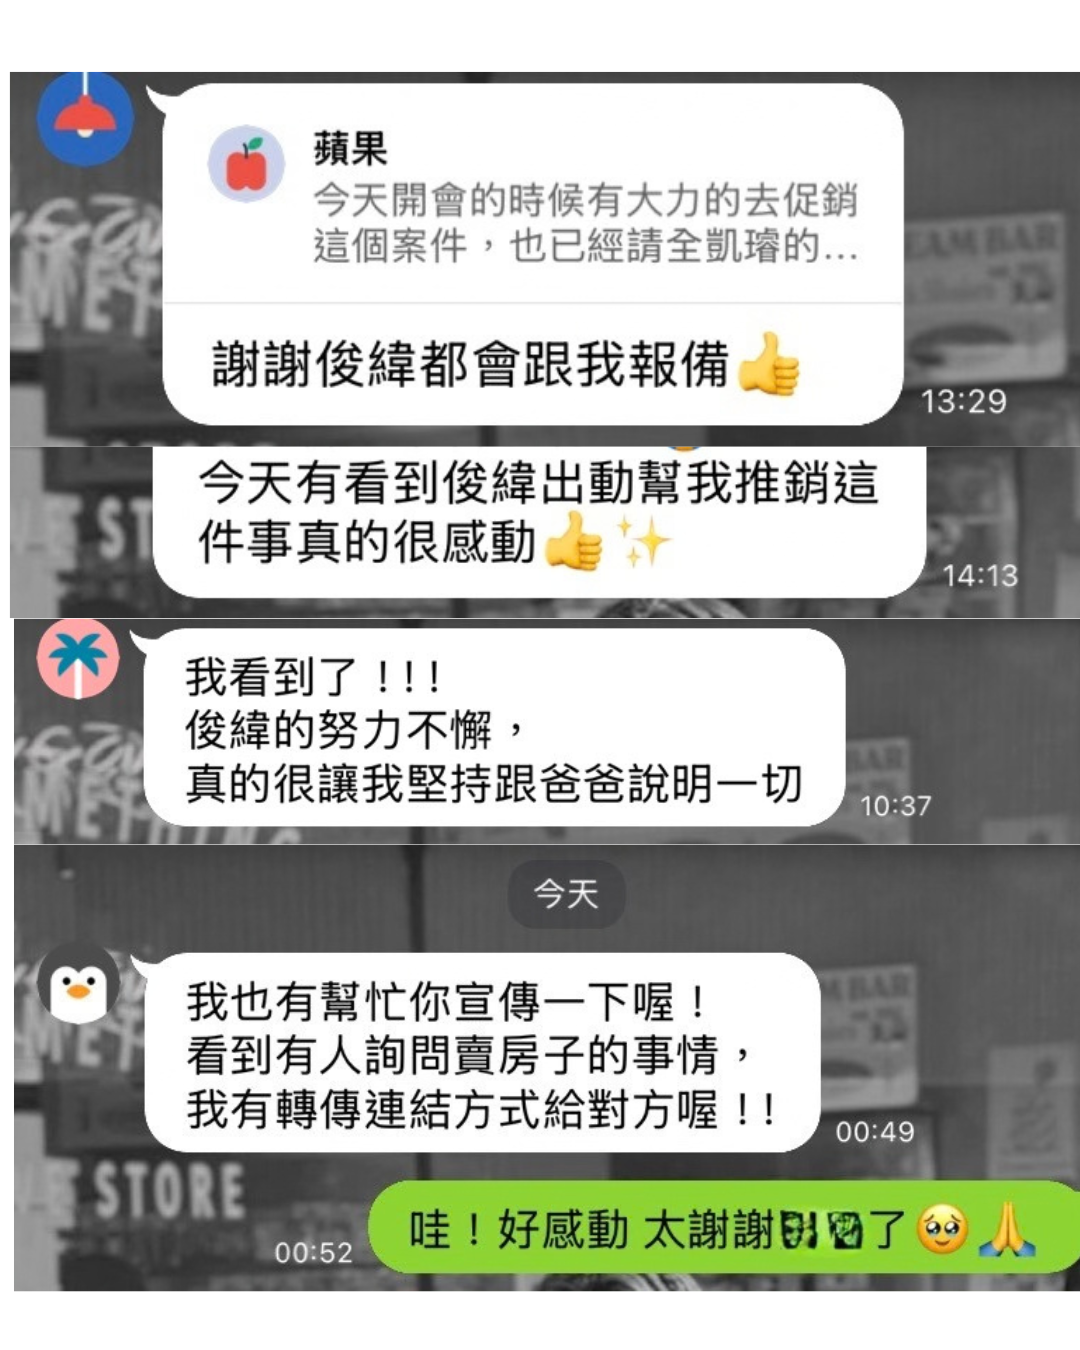
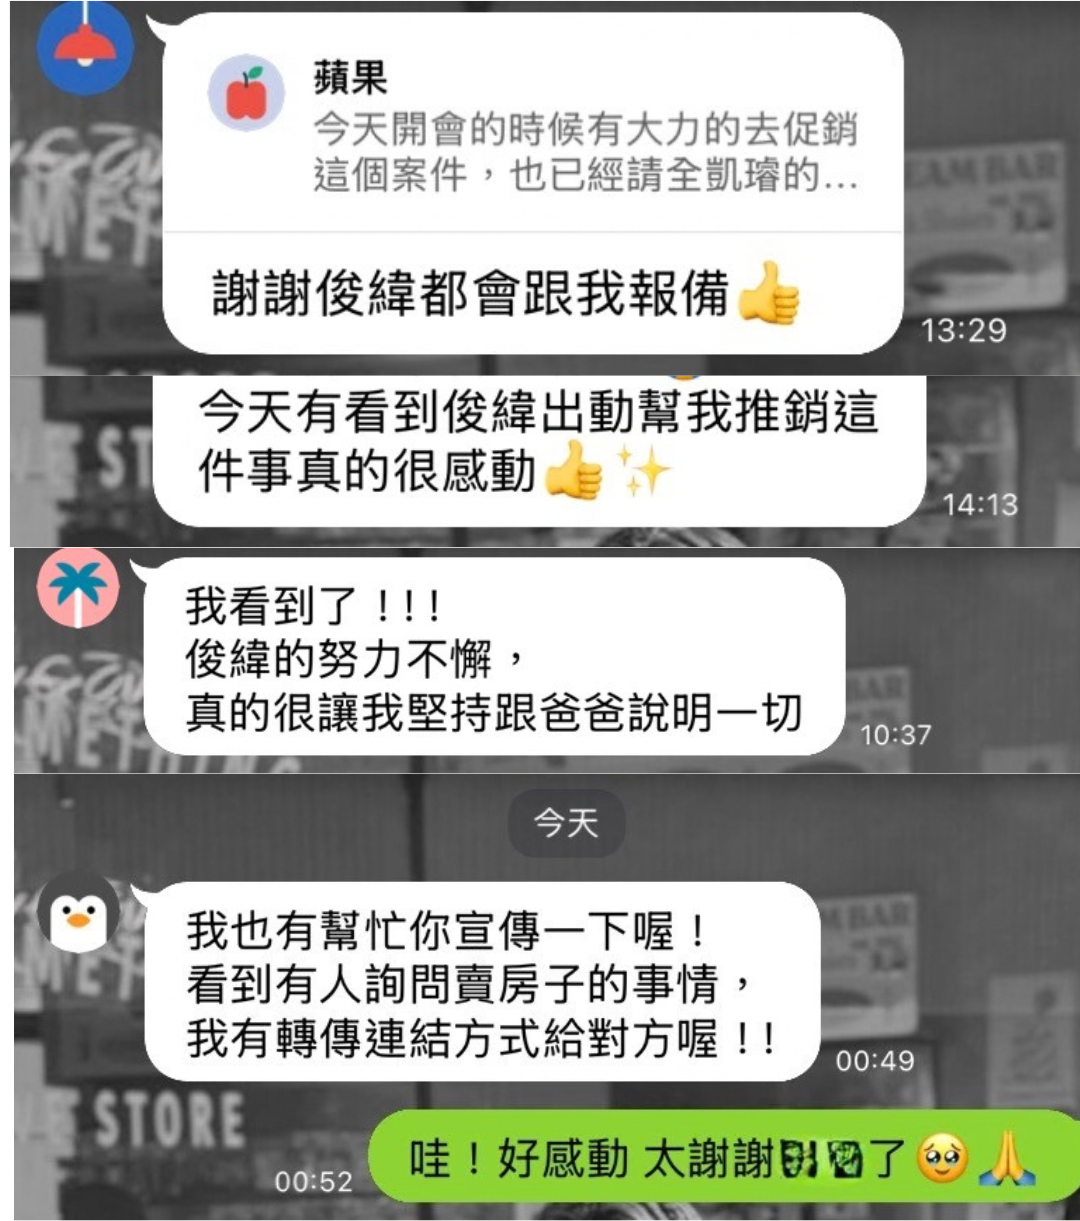
移除客戶回饋圖片白邊

diff --git a/index.B7BeDZ9H.css b/index.B7BeDZ9H.css
@@ -10,3 +10,6 @@
 .feedback-topic-card .feedback-shots figure,
 .feedback-topic-card .feedback-shots img{height:auto;max-height:none}
 .feedback-topic-card .feedback-shots img{width:100%;object-fit:contain}
+/* Remove decorative frame around feedback screenshots */
+.feedback-topic-card .feedback-shots figure{padding:0;background:transparent}
+.feedback-topic-card .feedback-shots img{background:transparent}
